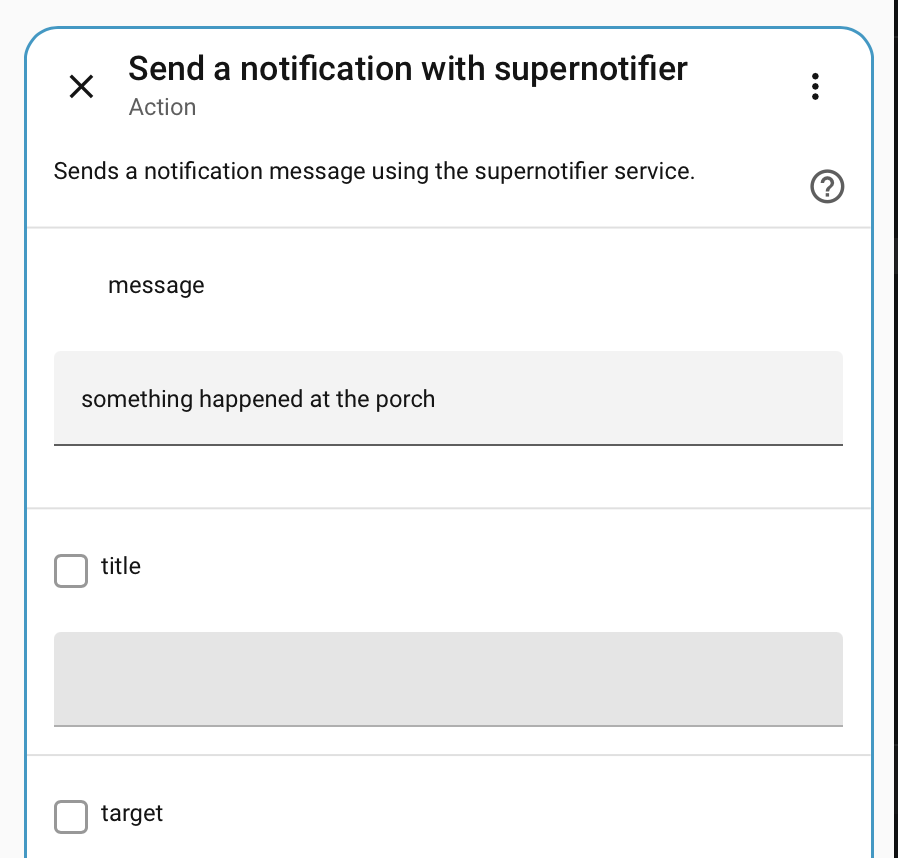
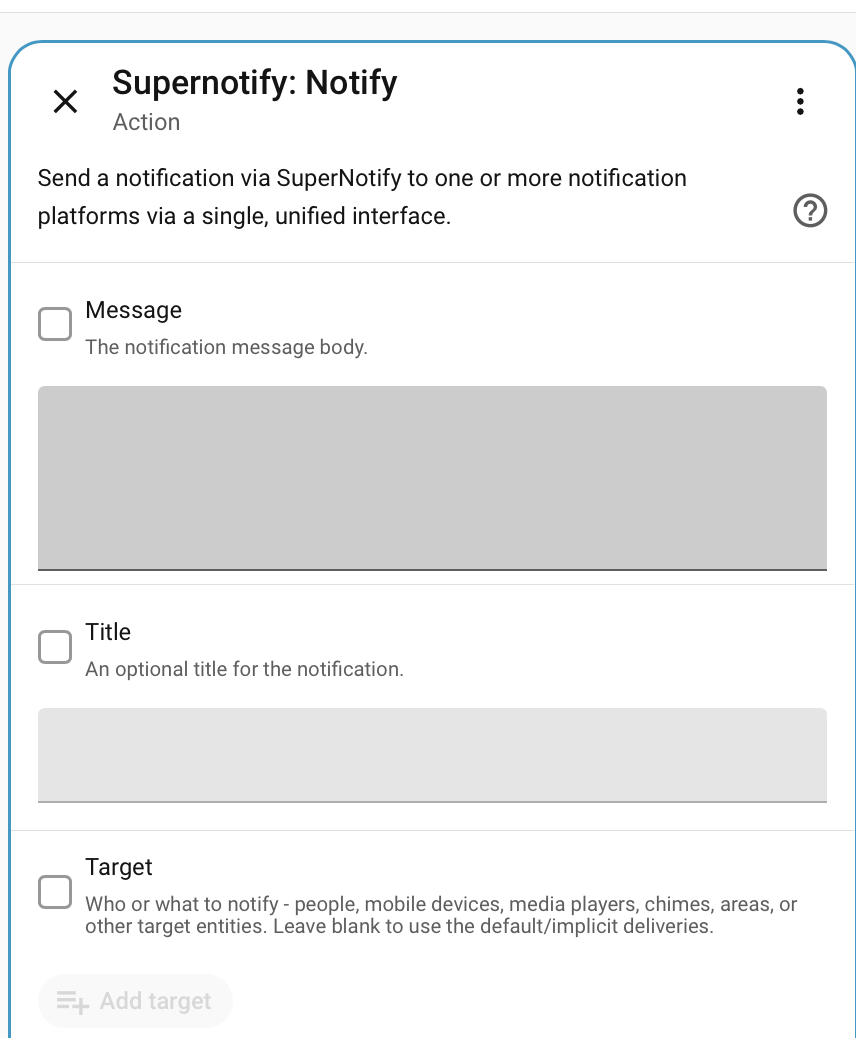
docs

diff --git a/docs/quick_start/first_notification.md b/docs/quick_start/first_notification.md
@@ -12,7 +12,11 @@ Everything on this page is done from the Home Assistant UI, straight after [inst
 
 ## 1. Notify Everyone
 
-Open the [Actions tab](https://www.home-assistant.io/docs/tools/dev-tools/#actions-tab) in **Developer Tools**, choose the `supernotify.notify` action, type a message, and press **Perform action**.
+Open the [Actions tab](https://www.home-assistant.io/docs/tools/dev-tools/#actions-tab) in **Developer Tools**, choose the `supernotify.notify` action
+
+![Select Action](../assets/images/automation_add_action.png)
+
+Type a message, and press **Perform action**.
 
 ![Tools Action](../assets/images/tools_action_notify.png){width=600}
 
